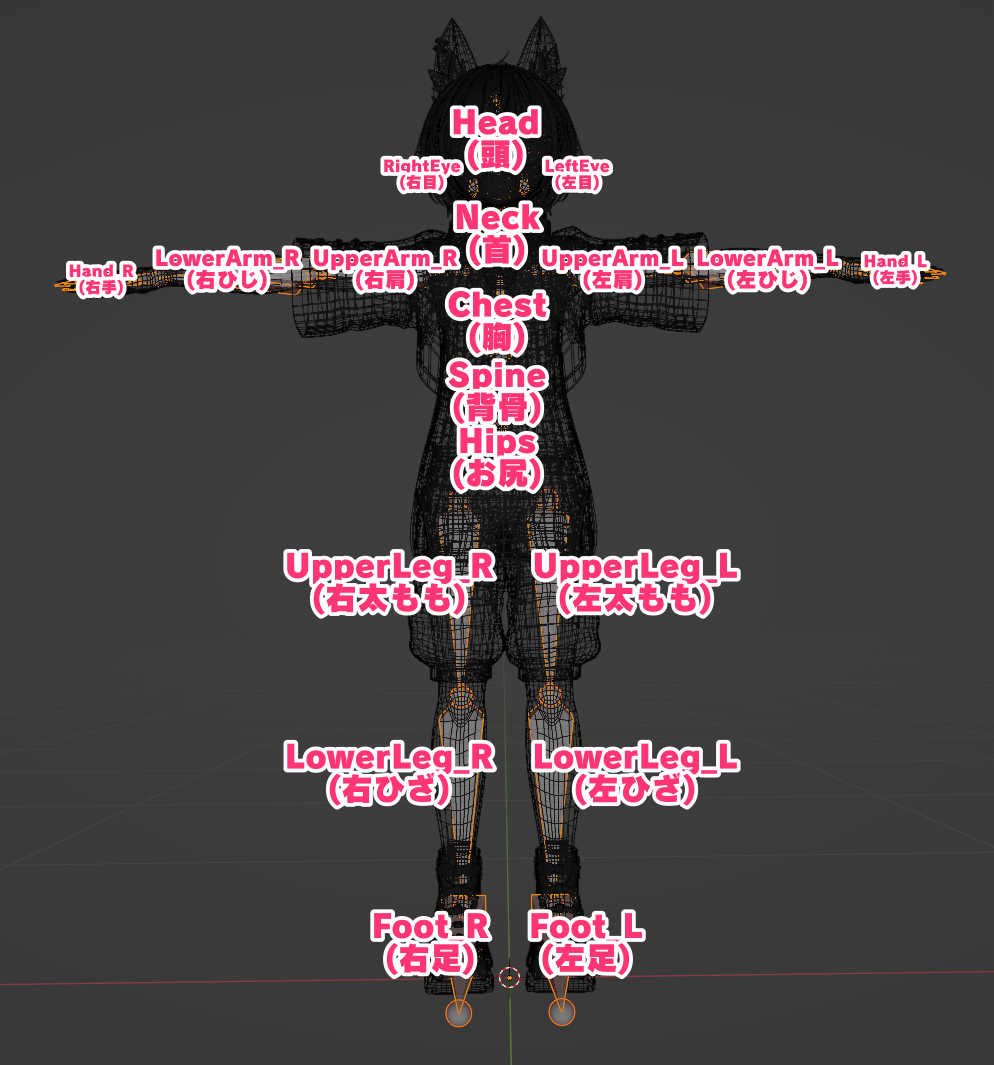
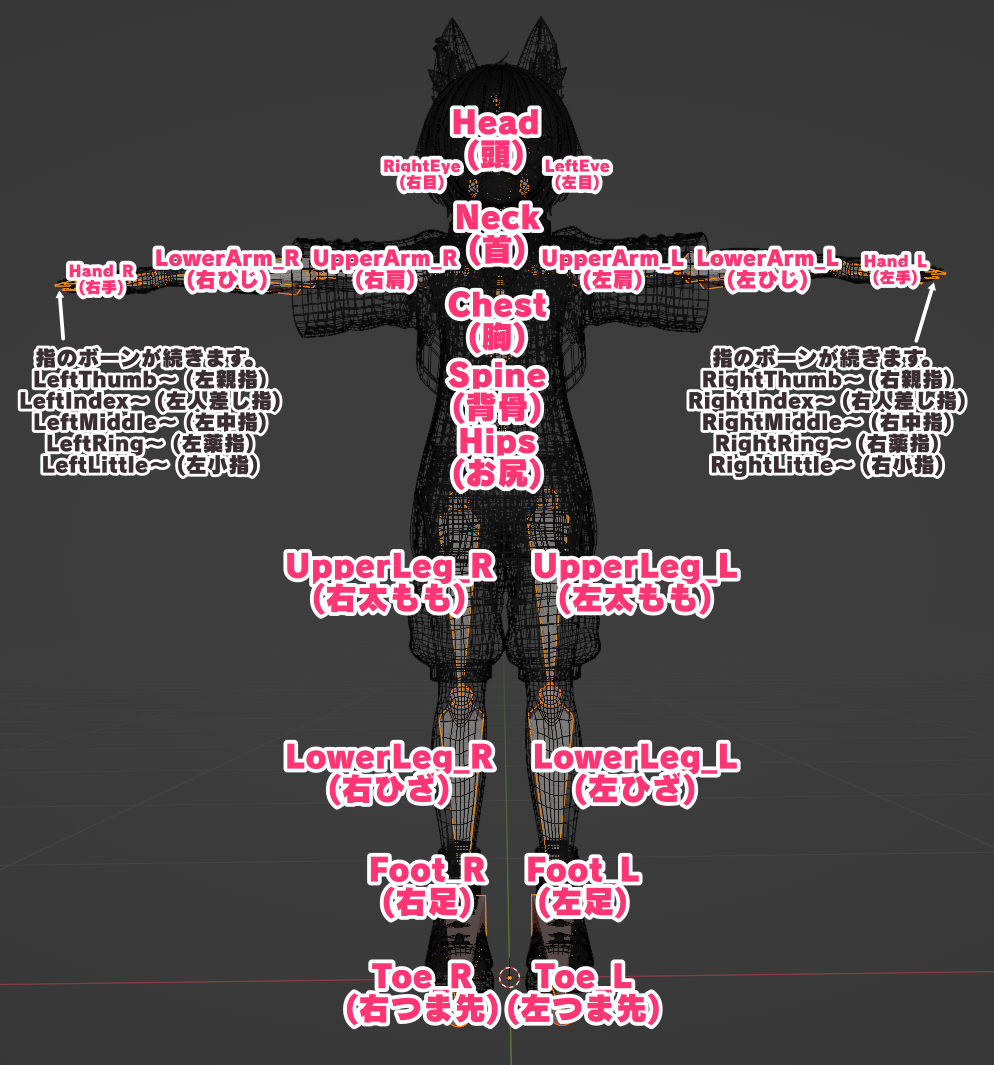
~add カタカタ見出し増量、Bone記事修正

Changed region(s): [[0.3431, 0.7746, 0.6861, 0.9915], [0.6861, 0.2789, 0.9668, 0.4648], [0.0, 0.2789, 0.2807, 0.4648]]

diff --git a/docs/索引/ABC/Bone.md b/docs/索引/ABC/Bone.md
@@ -14,36 +14,38 @@ VRChat向けアバターの場合、ボーンの階層構造は[Unity](/docs/索
 
 以下に、標準的なUnityヒューマノイドアバターの要件を満たすボーン構造の例を示します。(8階層以降(各指のボーン)は省略)。この構造は、Unityの[ヒエラルキーウィンドウ](/docs/索引/GHI/Hierarchyウィンドウ)で皆さんが普段使うアバターの「Armature」以下の構造を辿ってみると、おおむね同じようになっていることが分かるかと思います。ちなみに、購入したアバターのファイル一式にFBXファイルが含まれている場合、Blender等のモデリングツールでファイルを読み込むことでも以下の構造になっていることが確認できるので、興味のある方はやってみてください。
 
-| 0階層    | 1階層 | 2階層      | 3階層      | 4階層      | 5階層      | 6階層      | 7階層  | 説明                                               |
-| -------- | ----- | ---------- | ---------- | ---------- | ---------- | ---------- | ------ | -------------------------------------------------- |
-| Armature |       |            |            |            |            |            |        | これ自体は「フォルダ」のようなものでボーンではない |
-| └        | Hips  |            |            |            |            |            |        | お尻のボーン                                       |
-|          | ├     | Spine      |            |            |            |            |        | 背骨の第一ボーン                                   |
-|          | │     | └          | Chest      |            |            |            |        | 胸のボーン                                         |
-|          | │     |            | ├          | Neck       |            |            |        | 首のボーン                                         |
-|          | │     |            | │          | └          | Head       |            |        | 頭のボーン                                         |
-|          | │     |            | │          |            | ├          | LeftEye    |        | 左目のボーン                                       |
-|          | │     |            | │          |            | └          | RightEye   |        | 右目のボーン                                       |
-|          | │     |            | ├          | Shoulder_L |            |            |        | 左肩のボーン                                       |
-|          | │     |            | │          | └          | UpperArm_L |            |        | 左上腕のボーン                                     |
-|          | │     |            | │          |            | └          | LowerArm_L |        | 左ひじのボーン                                     |
-|          | │     |            | │          |            |            | └          | Hand_L | 左手のボーン                                       |
-|          | │     |            | │          |            |            |            | ├      | (左手の指のボーンが各指3個ずつ、計15個)            |
-|          | │     |            | └          | Shoulder_R |            |            |        | 右肩のボーン                                       |
-|          | │     |            |            | └          | UpperArm_R |            |        | 右上腕のボーン                                     |
-|          | │     |            |            |            | └          | LowerArm_R |        | 右ひじのボーン                                     |
-|          | │     |            |            |            |            | └          | Hand_R | 右手のボーン                                       |
-|          | │     |            |            |            |            |            | ├      | (右手の指のボーンが各指3個ずつ、計15個)            |
-|          | ├     | UpperLeg_L |            |            |            |            |        | 左太もものボーン                                   |
-|          | │     | └          | LowerLeg_L |            |            |            |        | 左ひざのボーン                                     |
-|          | │     |            | └          | Foot_L     |            |            |        | 左足首のボーン                                     |
-|          | └     | UpperLeg_R |            |            |            |            |        | 右太もものボーン                                   |
-|          |       | └          | LowerLeg_R |            |            |            |        | 右ひざのボーン                                     |
-|          |       |            | └          | Foot_R     |            |            |        | 右足首のボーン                                     |
+| 0階層    | 1階層 | 2階層      | 3階層      | 4階層      | 5階層      | 6階層      | 7階層  | 説明                                                |
+| -------- | ----- | ---------- | ---------- | ---------- | ---------- | ---------- | ------ | --------------------------------------------------- |
+| Armature |       |            |            |            |            |            |        | これ自体は「フォルダ」のようなものでボーンではない  |
+| └        | Hips  |            |            |            |            |            |        | お尻のボーン                                        |
+|          | ├     | Spine      |            |            |            |            |        | 背骨の第一ボーン                                    |
+|          | │     | └          | Chest      |            |            |            |        | 胸のボーン                                          |
+|          | │     |            | ├          | Neck       |            |            |        | 首のボーン                                          |
+|          | │     |            | │          | └          | Head       |            |        | 頭のボーン                                          |
+|          | │     |            | │          |            | ├          | LeftEye    |        | 左目のボーン                                        |
+|          | │     |            | │          |            | └          | RightEye   |        | 右目のボーン                                        |
+|          | │     |            | ├          | Shoulder_L |            |            |        | 左肩のボーン                                        |
+|          | │     |            | │          | └          | UpperArm_L |            |        | 左上腕のボーン                                      |
+|          | │     |            | │          |            | └          | LowerArm_L |        | 左ひじのボーン                                      |
+|          | │     |            | │          |            |            | └          | Hand_L | 左手のボーン                                        |
+|          | │     |            | │          |            |            |            | ├      | **以下省略**(左手の指のボーンが各指3個ずつ、計15個) |
+|          | │     |            | └          | Shoulder_R |            |            |        | 右肩のボーン                                        |
+|          | │     |            |            | └          | UpperArm_R |            |        | 右上腕のボーン                                      |
+|          | │     |            |            |            | └          | LowerArm_R |        | 右ひじのボーン                                      |
+|          | │     |            |            |            |            | └          | Hand_R | 右手のボーン                                        |
+|          | │     |            |            |            |            |            | ├      | **以下省略**(右手の指のボーンが各指3個ずつ、計15個) |
+|          | ├     | UpperLeg_L |            |            |            |            |        | 左太もものボーン                                    |
+|          | │     | └          | LowerLeg_L |            |            |            |        | 左ひざのボーン                                      |
+|          | │     |            | └          | Foot_L     |            |            |        | 左足首のボーン                                      |
+|          | │     |            |            | └          | Toe_L      |            |        | 左つま先のボーン                                    |
+|          | └     | UpperLeg_R |            |            |            |            |        | 右太もものボーン                                    |
+|          |       | └          | LowerLeg_R |            |            |            |        | 右ひざのボーン                                      |
+|          |       |            | └          | Foot_R     |            |            |        | 右足首のボーン                                      |
+|          |       |            |            | └          | Toe_R      |            |        | 右つま先のボーン                                    |
 
 人体の骨の数は実際には206個ですが、Unityの標準的な人体ボーンは上記の通り50個程度とかなり少なくなっています。あくまでも外部からの見た目として「それらしい動き」を表現するためのものであり、むやみにボーンを増やすことは負荷の上昇や、単純に制作コストが膨大になるからです。
 
-なお、ボーンとアバターの位置関係の対応については、以下のハオランくん[^4] のボーン構造の図を参考にしてください(※各指のボーンは省略されていることに注意)。
+なお、ボーンとアバターの位置関係の対応については、以下のハオランくん[^4] のボーン構造の図を参考にしてください。
 
 ![ハオラン君の骨](/img_dictionary/Bone_1.png)
 

diff --git a/docs/索引/さ行/スキンドメッシュレンダラー.md b/docs/索引/さ行/スキンドメッシュレンダラー.md
@@ -1,0 +1,1 @@
+→ [SkinnedMeshRenderer](/docs/索引/STU/SkinnedMeshRenderer)

diff --git a/docs/索引/あ行/アンパックプレハブ.md b/docs/索引/あ行/アンパックプレハブ.md
@@ -1,0 +1,1 @@
+→ [Unpack Prefab](/docs/索引/STU/Unpack-Prefab)

diff --git a/docs/索引/ま行/モジュラーアバター.md b/docs/索引/ま行/モジュラーアバター.md
@@ -1,0 +1,1 @@
+→ [ModularAvatar](/docs/索引/MNO/ModularAvatar)

diff --git a/docs/索引/ま行/メッシュレンダラー.md b/docs/索引/ま行/メッシュレンダラー.md
@@ -1,0 +1,1 @@
+→ [MeshRenderer](/docs/索引/MNO/MeshRenderer)

diff --git a/docs/索引/か行/ゲームオブジェクト.md b/docs/索引/か行/ゲームオブジェクト.md
@@ -1,0 +1,1 @@
+→ [GameObject](/docs/索引/GHI/GameObject)

diff --git a/docs/索引/は行/ブレンドシェイプ.md b/docs/索引/は行/ブレンドシェイプ.md
@@ -1,0 +1,1 @@
+→ [BlendShape](/docs/索引/ABC/BlendShape)

diff --git a/docs/索引/た行/トランスフォーム.md b/docs/索引/た行/トランスフォーム.md
@@ -1,0 +1,1 @@
+→ [Transform](/docs/索引/STU/Transform)

diff --git a/docs/索引/あ行/アーマチュア.md b/docs/索引/あ行/アーマチュア.md
@@ -1,0 +1,1 @@
+→ [Armature](/docs/索引/ABC/Armature)

diff --git a/docs/索引/は行/フィズボーン.md b/docs/索引/は行/フィズボーン.md
@@ -1,0 +1,1 @@
+→ [PhysBone](/docs/索引/PQR/PhysBone)

diff --git a/docs/索引/ま行/マテリアル.md b/docs/索引/ま行/マテリアル.md
@@ -1,0 +1,1 @@
+→ [Material](/docs/索引/MNO/Material)

diff --git a/docs/索引/や行/ユニマジ.md b/docs/索引/や行/ユニマジ.md
@@ -1,0 +1,1 @@
+→ [UniMagic](/docs/索引/STU/UniMagic)
